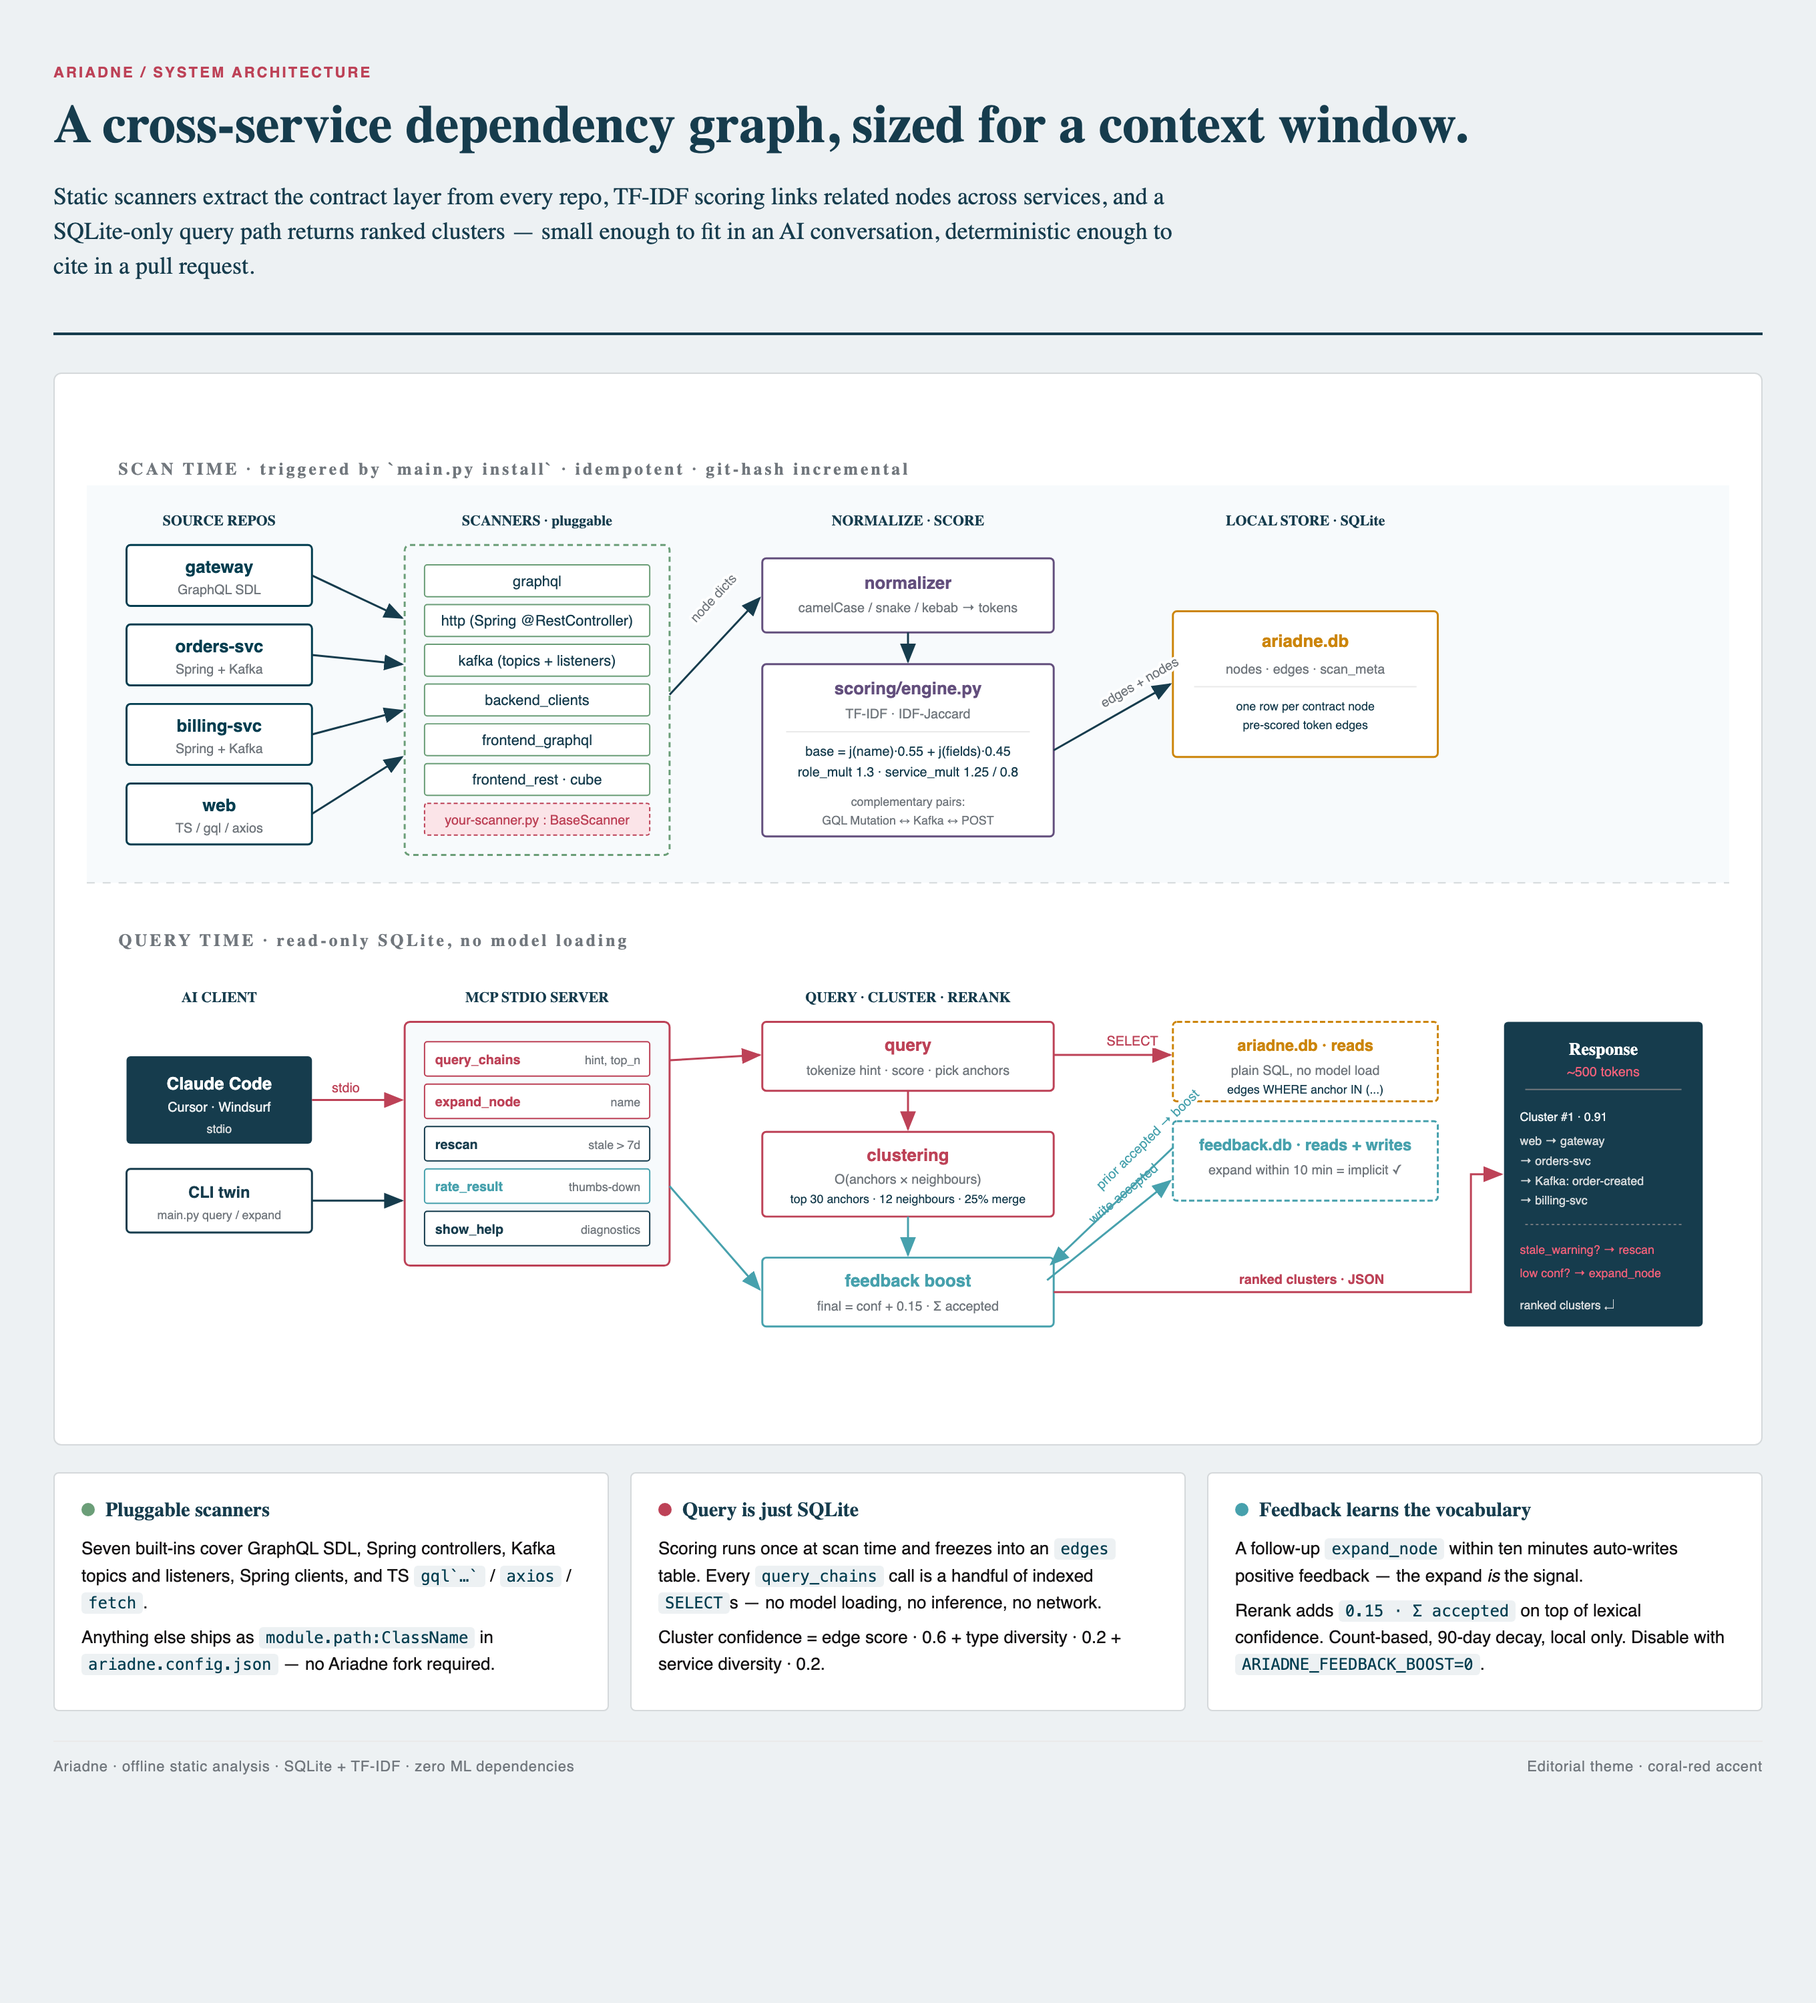
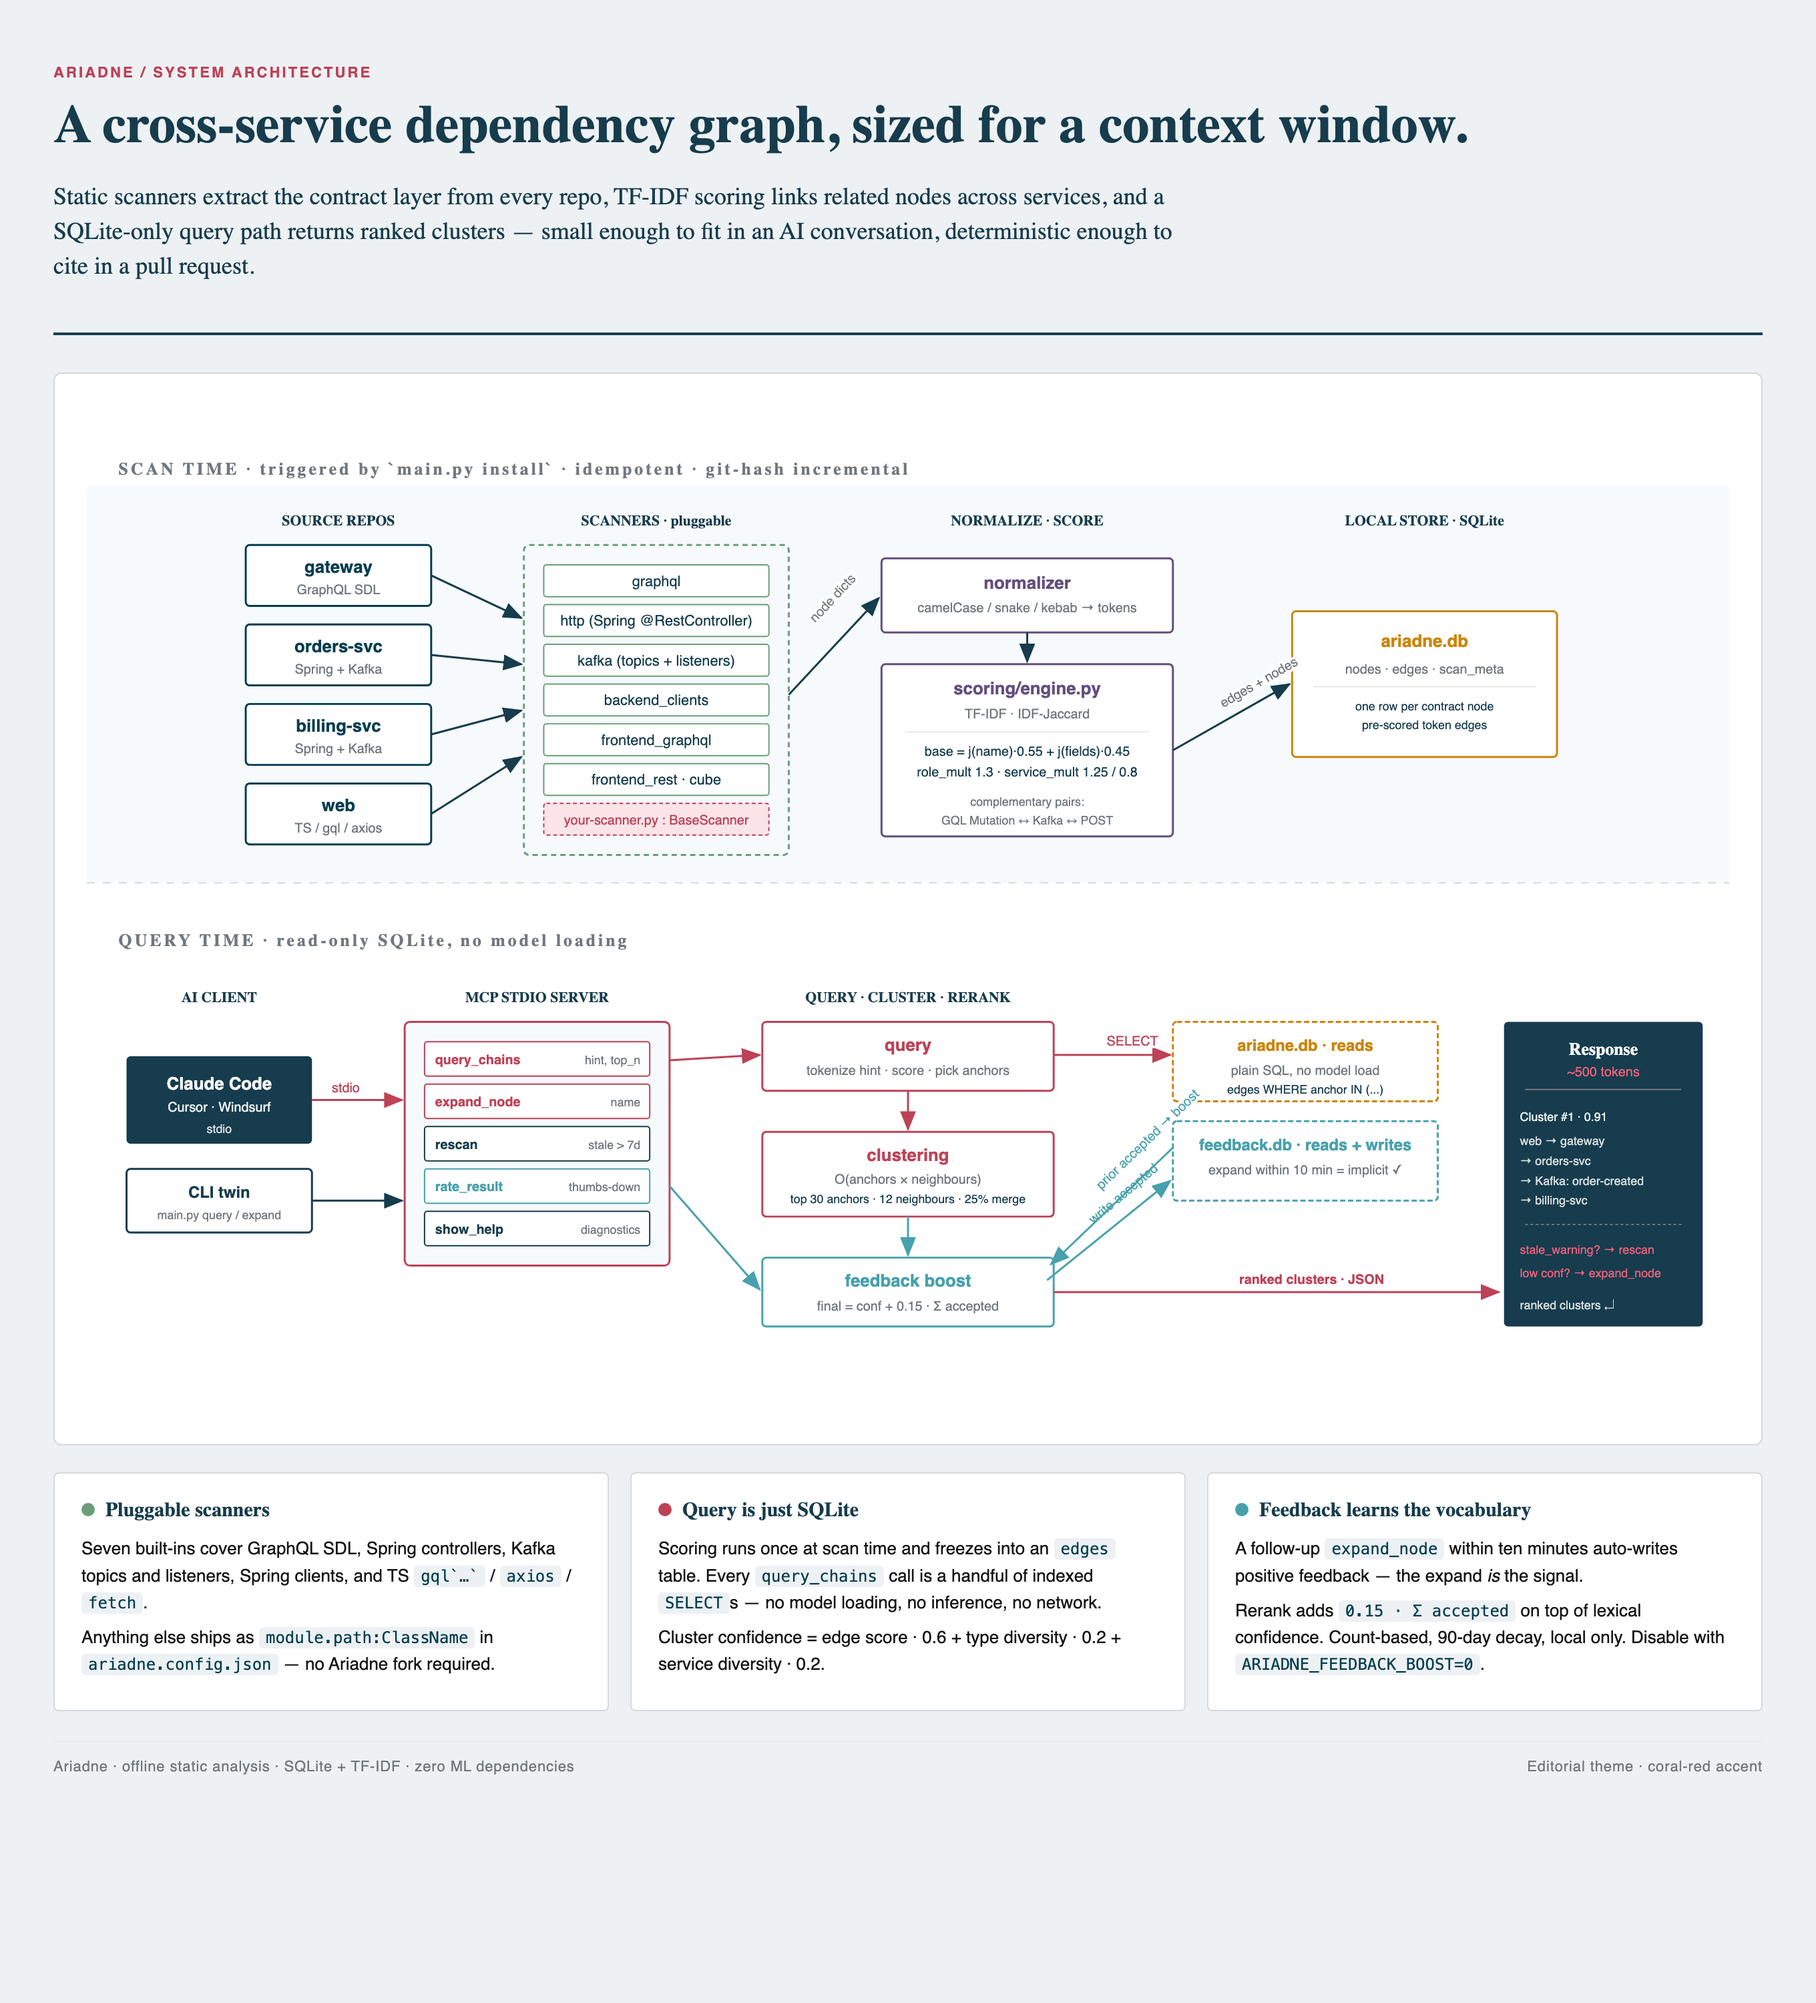
docs: re-center SCAN TIME columns, straighten ranked-clusters output
- Wrap SCAN TIME in g transform(90,0) so the pipeline sits centered now
  that main.py install has moved to the band title.
- Straighten the 'ranked clusters · JSON' arrow from feedback boost to
  Response — feedback boost is the final step, output goes direct.

Changed region(s): [[0.0938, 0.248, 0.8125, 0.434]]

diff --git a/docs/architecture.html b/docs/architecture.html
@@ -156,7 +156,7 @@
     <text x="24" y="408" class="title" font-size="13" fill="#71777d" letter-spacing="2">QUERY TIME  ·  read-only SQLite, no model loading</text>
 
     <!-- ============ SCAN TIME ============ -->
-
+    <g transform="translate(90,0)">
     <!-- Column 1: Repos -->
     <text x="100" y="90" class="title" font-size="11" fill="#163c4d" text-anchor="middle">SOURCE REPOS</text>
     <rect x="30"  y="105" width="140" height="46" rx="3" fill="#ffffff" stroke="#003d4f" stroke-width="1.5"/>
@@ -239,6 +239,7 @@
 
     <line x1="730" y1="260" x2="818" y2="210" stroke="#163c4d" stroke-width="1.5" marker-end="url(#arrow)"/>
     <text x="768" y="228" class="on-line" font-size="10" fill="#71777d" transform="rotate(-30 768 228)">edges + nodes</text>
+    </g>
 
     <!-- ============ QUERY TIME ============ -->
 
@@ -338,8 +339,8 @@
     <line x1="820" y1="560" x2="728" y2="648" stroke="#47a1ad" stroke-width="1.5" marker-end="url(#arrow-teal)"/>
     <text x="766" y="592" class="on-line" font-size="10" fill="#47a1ad" transform="rotate(-44 766 592)">prior accepted → boost</text>
 
-    <!-- ranked clusters · JSON — route below the DB column via x=1045 corridor -->
-    <polyline points="730,669 1045,669 1045,580 1068,580" fill="none" stroke="#bd4257" stroke-width="1.5" marker-end="url(#arrow-coral)"/>
+    <!-- ranked clusters · JSON — feedback boost is the final step, output → Response -->
+    <line x1="730" y1="669" x2="1066" y2="669" stroke="#bd4257" stroke-width="1.5" marker-end="url(#arrow-coral)"/>
     <text x="870" y="663" class="on-line" font-size="10" fill="#bd4257" font-weight="600">ranked clusters · JSON</text>
 
   </svg>
